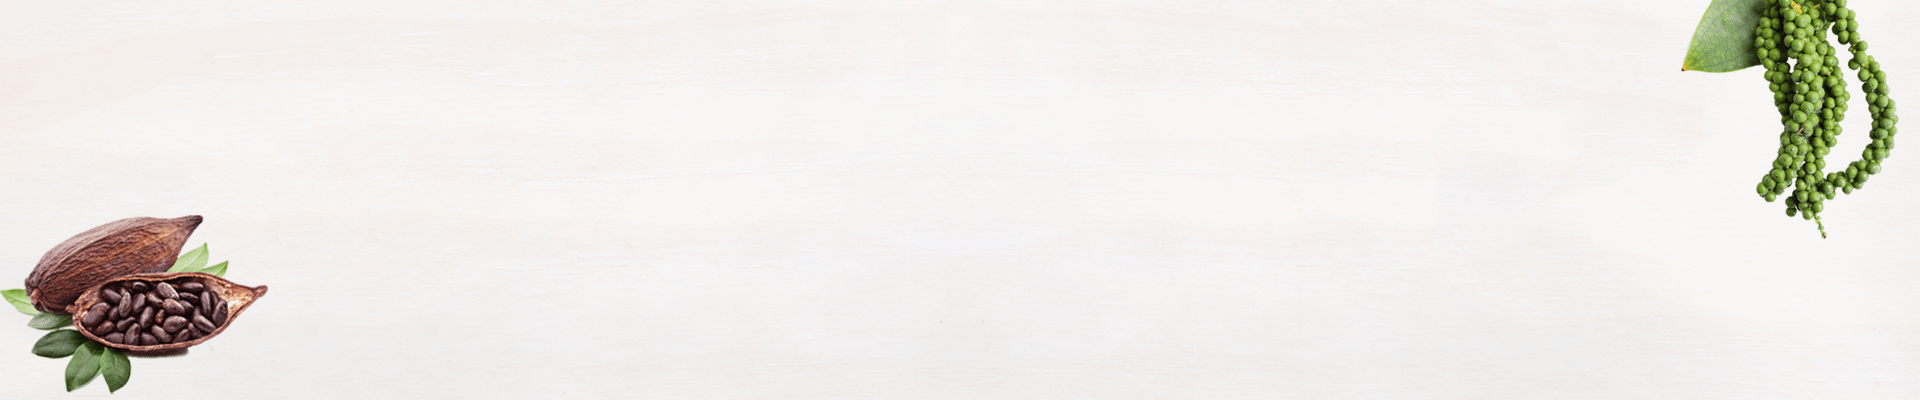
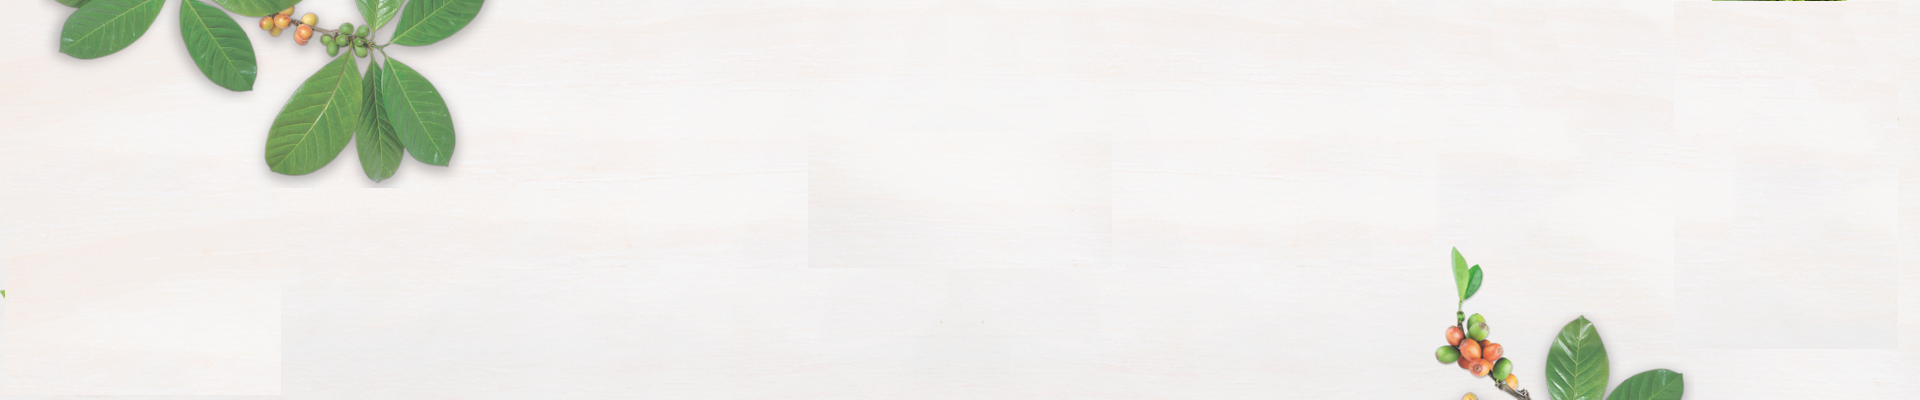
Fix small bugs and change header background

diff --git a/src/resources/views/front/posts/index.blade.php b/src/resources/views/front/posts/index.blade.php
@@ -50,7 +50,7 @@
                                 <div class="col-md-7">
                                     <div class="blog-it-content2">
                                         <div class="date">
-                                            <span>@lang('blog.posted-by') {{$post_tran->post->author->last_name}} {{$post_tran->post->author->first_name}}, {{ date('d-m-Y', strtotime($post_tran->post->created_at)) }}</span>
+                                            <span>{{$post_tran->post->author->first_name}} {{$post_tran->post->author->last_name}} | {{ date('d-m-Y', strtotime($post_tran->post->created_at)) }}</span>
                                         </div>                                
                                         <h2><a href="{{url('/')}}/posts/{{$post_tran->post->slug}}">{{$post_tran->title}}</a></h2>
                                         <p>{{$post_tran->excerpt}} </p>
@@ -76,7 +76,7 @@
                         <div class="col-md-7">
                             <div class="blog-it-content2">
                                 <div class="date">
-                                    <span>@lang('blog.posted-by') {{$post->author->last_name}} {{$post->author->first_name}}, {{ date('d-m-Y', strtotime($post->created_at)) }}</span>
+                                    <span>{{$post->author->first_name}} {{$post->author->last_name}} | {{ date('d-m-Y', strtotime($post->created_at)) }}</span>
                                 </div>                                
                                 <h2><a href="{{url('/')}}/posts/{{$post->slug}}">{{$post->translation->title}}</a></h2>
                                 <p>{{$post->translation->excerpt}} </p>
@@ -131,7 +131,7 @@
                             <img src="{{asset('/storage/images/blog/preview/')}}/{{$post->img}}" alt="post1">
                             <div class="pp-infor">
                                 <div class="date">
-                                    <span>@lang('blog.posted-by') {{$post->author->last_name}} {{$post->author->first_name}} {{ date('d-m-Y', strtotime($post->created_at)) }}</span>
+                                    <span>{{$post->author->first_name}} {{$post->author->last_name}} | {{ date('d-m-Y', strtotime($post->created_at)) }}</span>
                                 </div>
                                 <h5><a href="{{url('/posts')}}/{{$post->slug}}">{{$post->translation->title}}</a></h5>
                             </div>

diff --git a/src/resources/views/front/posts/show.blade.php b/src/resources/views/front/posts/show.blade.php
@@ -12,7 +12,7 @@
             <div class="col-md-12 col-sm-12 col-xs-12">
                 <div class="blogsingle-content">
                     <div class="date">
-                        <span>@lang('blog.posted-by') {{$post->author->last_name}} {{$post->author->first_name}}, {{ date('d-m-Y', strtotime($post->created_at)) }}</span>
+                        <span>{{$post->author->first_name}} {{$post->author->last_name}} | {{ date('d-m-Y', strtotime($post->created_at)) }}</span>
                     </div>
                     <h1>{{$post->translation->title??$post->title}} </h1>
                     <p class="quote">{{$post->translation->excerpt??'Content not found!'}}</p>
@@ -68,7 +68,7 @@
                                 </div>
                                 @else
                                     <input type="hidden" id="reader_id" name="reader_id" value="{{Auth::user()->id}}">
-                                    <input type="hidden" id="name" name="name" value="{{Auth::user()->last_name}} {{Auth::user()->first_name}}">
+                                    <input type="hidden" id="name" name="name" value="{{Auth::user()->first_name}} {{Auth::user()->last_name}}">
                                     <input type="hidden" id="email" name="email" value="{{Auth::user()->email}}">
                                 @endguest       
                                                          

diff --git a/src/resources/views/front/home/index.blade.php b/src/resources/views/front/home/index.blade.php
@@ -68,7 +68,7 @@
                     <img src="{{ asset('images/logo/community-icon.png') }}" alt="">
                     <h2>@lang('home.community')</h2>
                     <p>{{$community_category->translation->description??""}}</p>
-                    <a class="learnmore" href="{{url('menu/posts/'.$community_category->slug)}}">@lang('common.more-details')</a>
+                    <a class="learnmore" href="{{url('subject/posts/'.$community_category->slug)}}">@lang('common.more-details')</a>
                 </div>
             </div>            
         </div>
